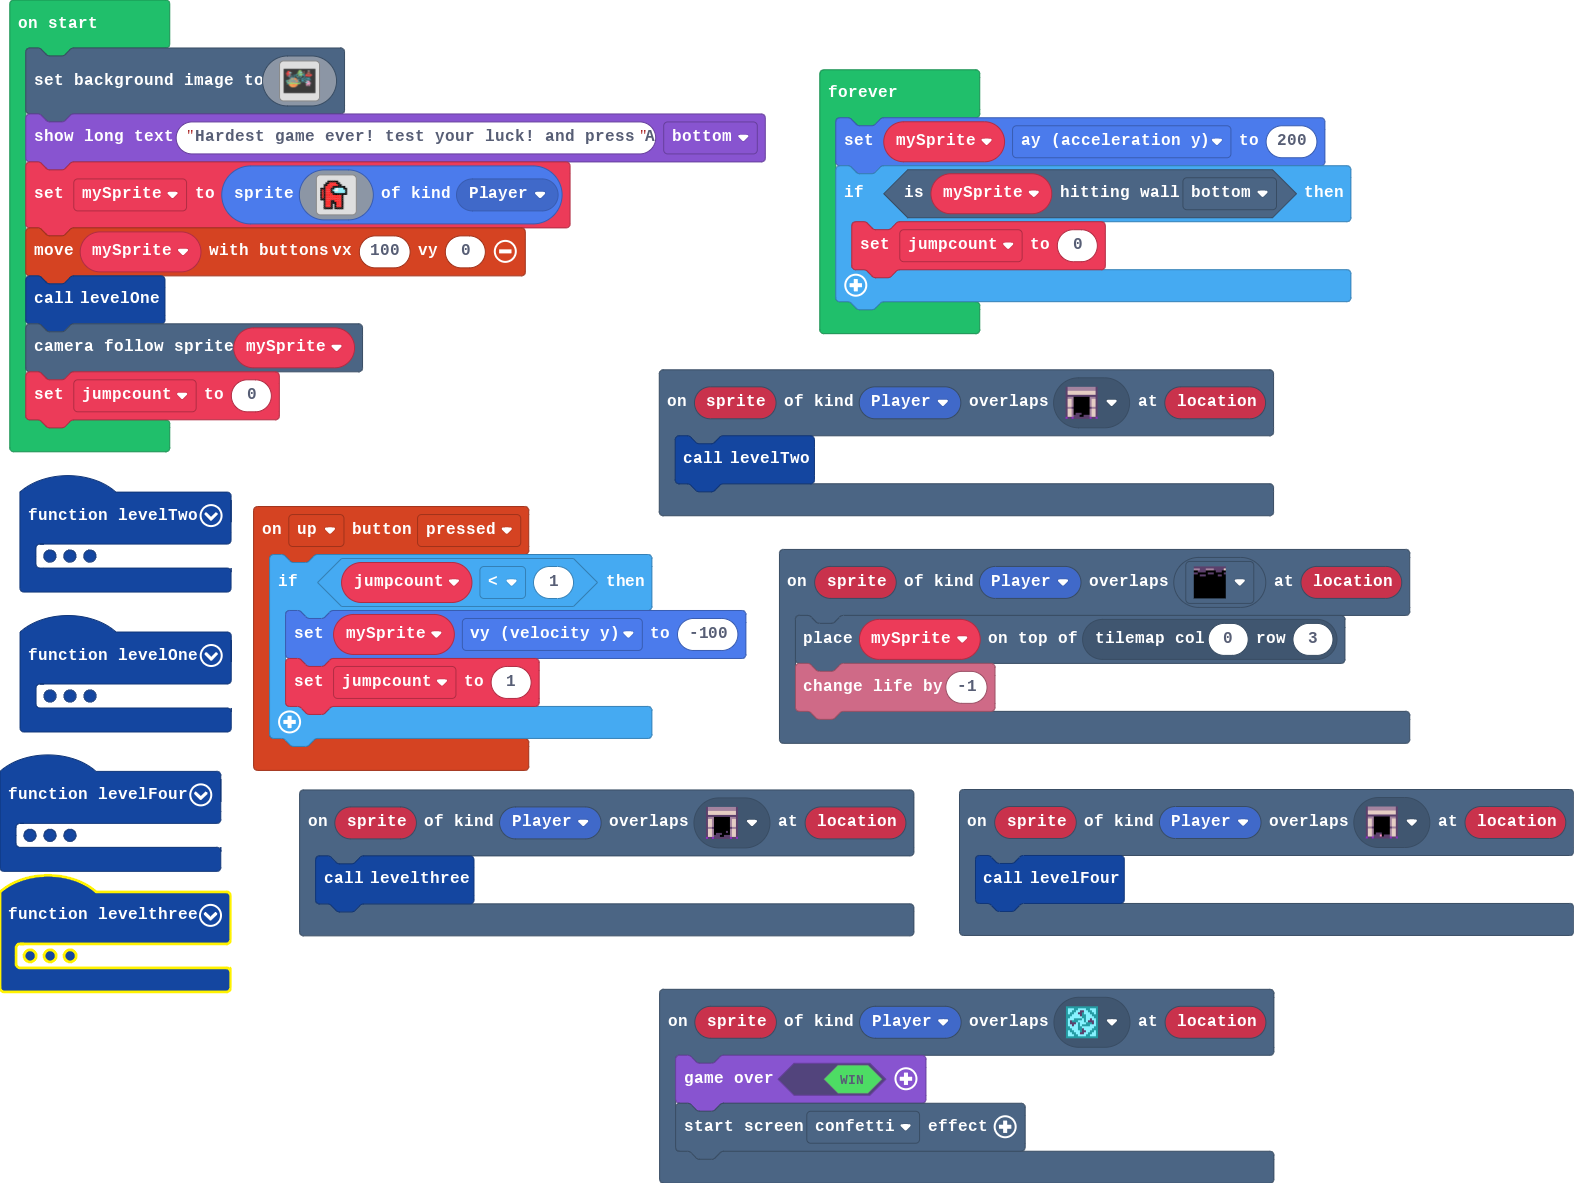
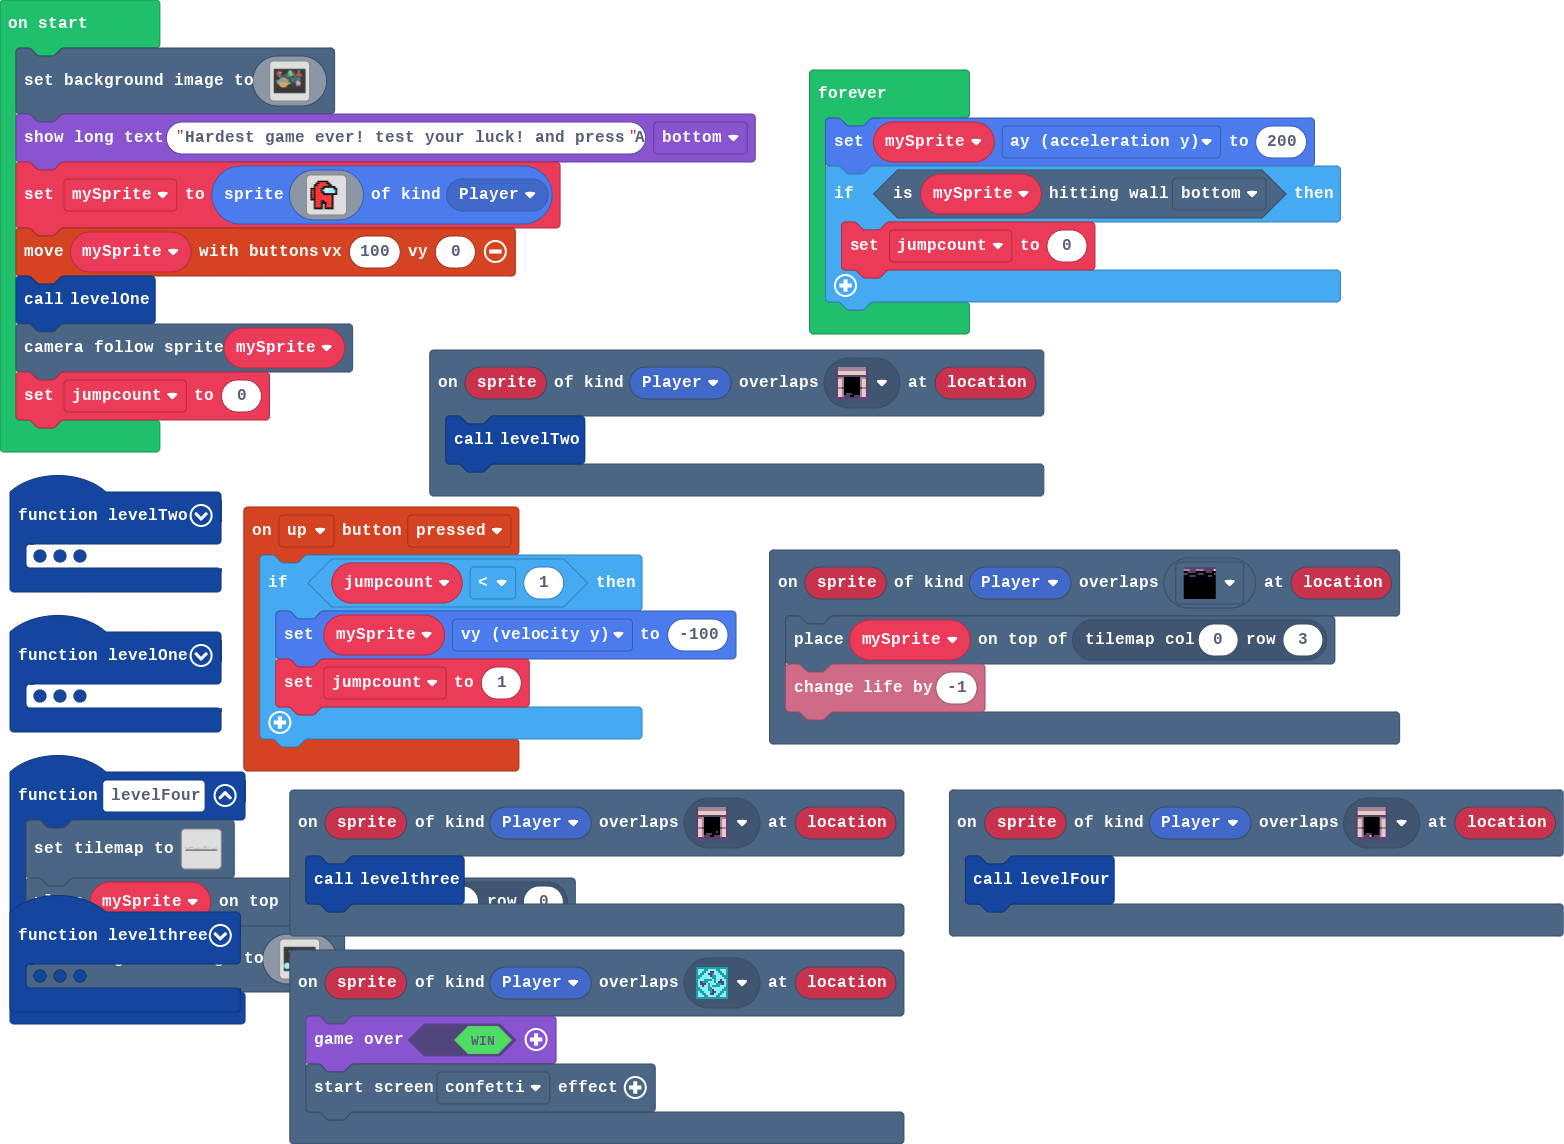
Update main.blocks, tilemap.g.jres, tilemap.g.ts

diff --git a/tilemap.g.ts b/tilemap.g.ts
@@ -95,27 +95,27 @@ namespace myTiles {
 ..................................................
 `, [myTiles.transparency16,sprites.builtin.forestTiles10,myTiles.tile6,myTiles.tile11,sprites.dungeon.darkGroundNorth,sprites.dungeon.darkGroundSouth,sprites.dungeon.hazardHole], TileScale.Sixteen);
             case "level5":
[1 lines of base64/hex data omitted]
-................................................................................
-....................2........................................2222...............
-...............22...2...................................................2.......
-....................22....2..................................2222...............
-............222..22.....2..................................2...........2........
-222.......2.........222..................2...................2...............222
-............2..........................2.............2...2.2..........2.........
-..........2..........................2...2.2....................................
-........2..........................2.....2..........2................2..........
-.....22........................222................2................2............
-...............................................22...............................
-................................................................................
-................................................................................
-................................................................................
-`, [myTiles.transparency16,myTiles.tile6,sprites.dungeon.hazardHole,sprites.dungeon.darkGroundNorth,sprites.dungeon.darkGroundSouth,myTiles.tile23], TileScale.Sixteen);
[1 lines of base64/hex data omitted]
+....................................................................................................
+....................2........................................2222...................................
+...............22...2...................................................2...2.......................
+....................22....2..............2................2..2222...2...............................
+............222..22.....2................2.................2........2..2............................
+222.......2.........222..................2...................2...........................2..........
+............2..........................2.............2...2.2..........2..................2..2.2..222
+..........2..........................2...2.2..............................................2.........
+........2..........................2.....2..........2................2..................2...2.......
+.....22........................222................2................2..................2...2.........
+...............................................22.................................22................
+....................................................................................................
+....................................................................................................
+....................................................................................................
+`, [myTiles.transparency16,myTiles.tile6,sprites.dungeon.hazardHole,sprites.dungeon.darkGroundNorth,sprites.dungeon.darkGroundSouth,myTiles.tile10,sprites.dungeon.collectibleInsignia], TileScale.Sixteen);
             case "level4":
[2 lines of base64/hex data omitted]
 ......................................................................
 ......................................................................
-.................................22222................22..............
+.................................22222................2...............
 ................22...........2......................2..2222..2........
 .............................22..22222................2...............
 ................2..............2.....................2................
@@ -127,7 +127,7 @@ namespace myTiles {
 ......................................................................
 ......................................................................
 ......................................................................
-`, [myTiles.transparency16,myTiles.tile6,myTiles.tile11,myTiles.tile18,sprites.dungeon.hazardHole,sprites.dungeon.darkGroundNorth,sprites.dungeon.darkGroundSouth], TileScale.Sixteen);
+`, [myTiles.transparency16,myTiles.tile6,myTiles.tile18,sprites.dungeon.hazardHole,sprites.dungeon.darkGroundNorth,sprites.dungeon.darkGroundSouth,myTiles.tile22], TileScale.Sixteen);
         }
         return null;
     })
